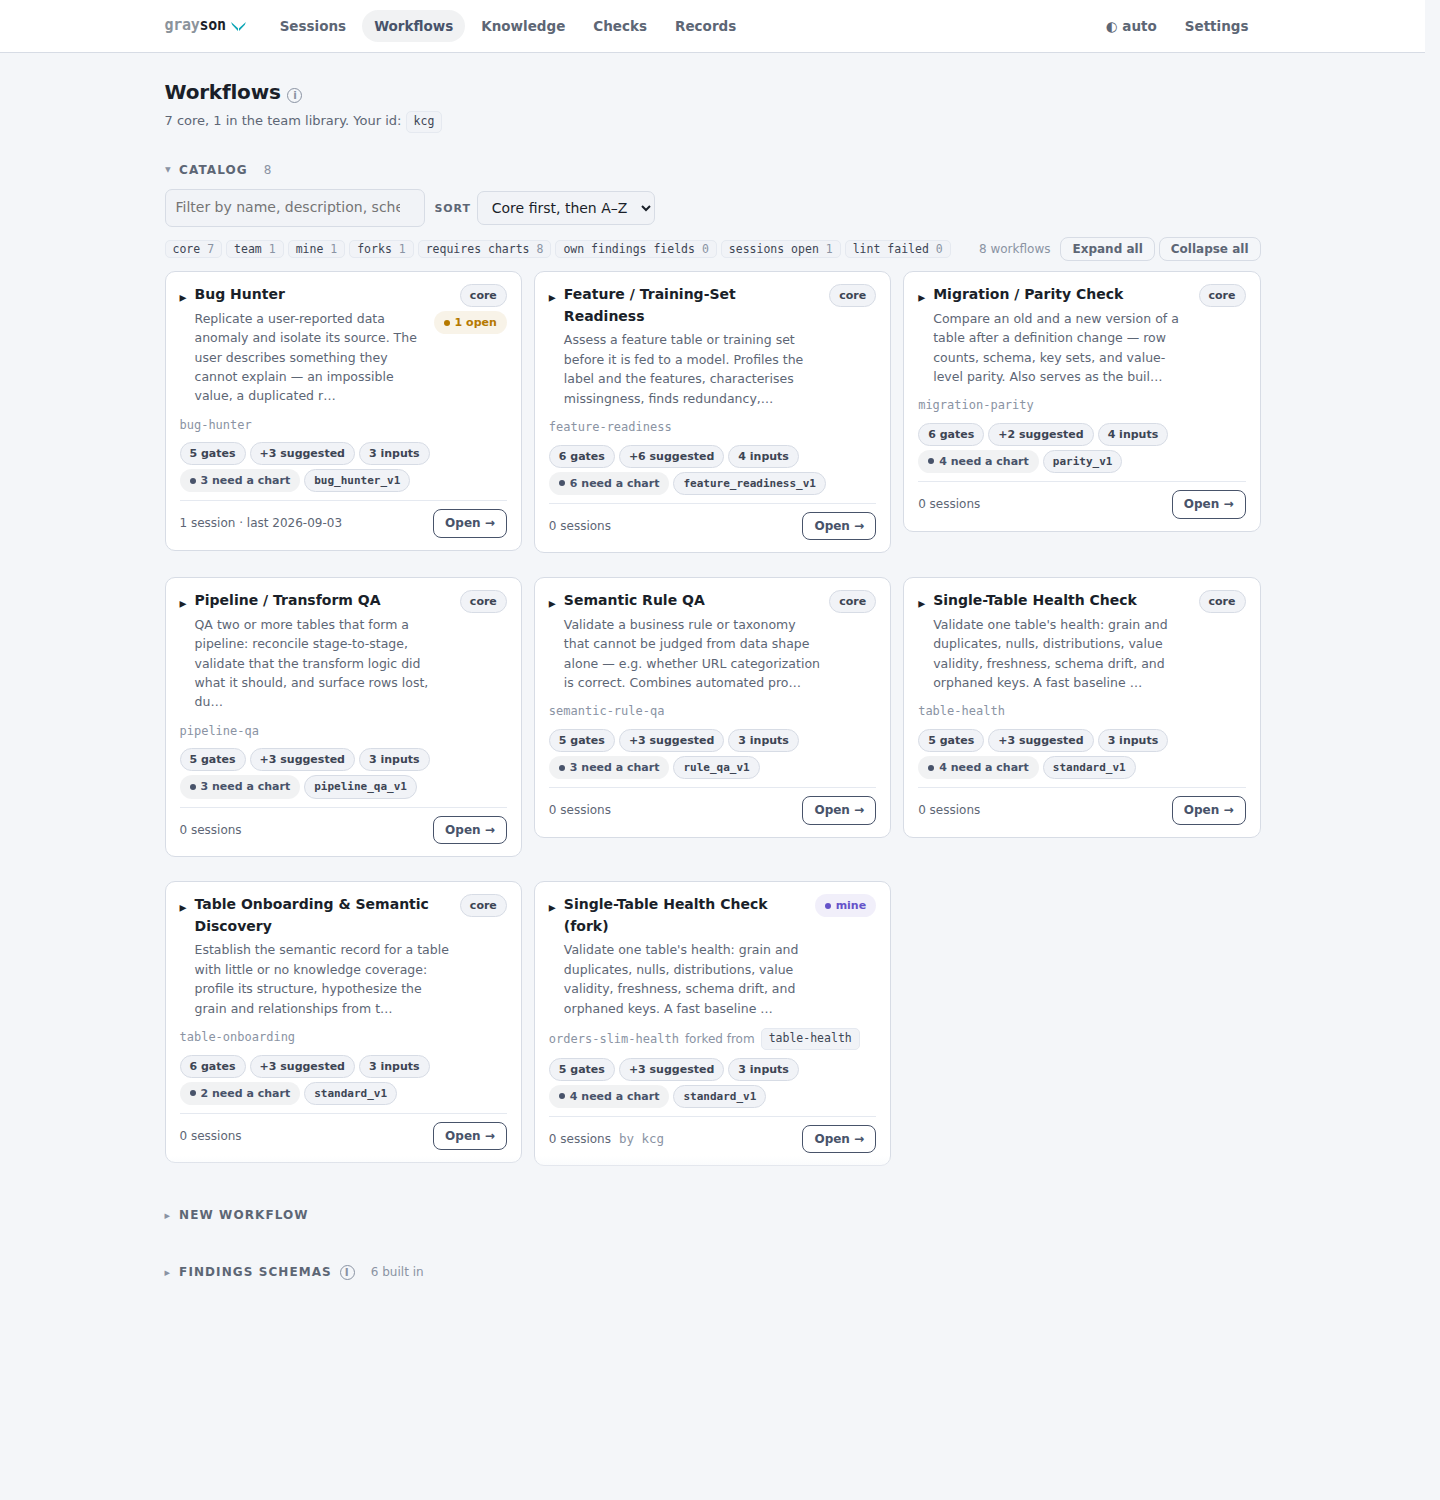
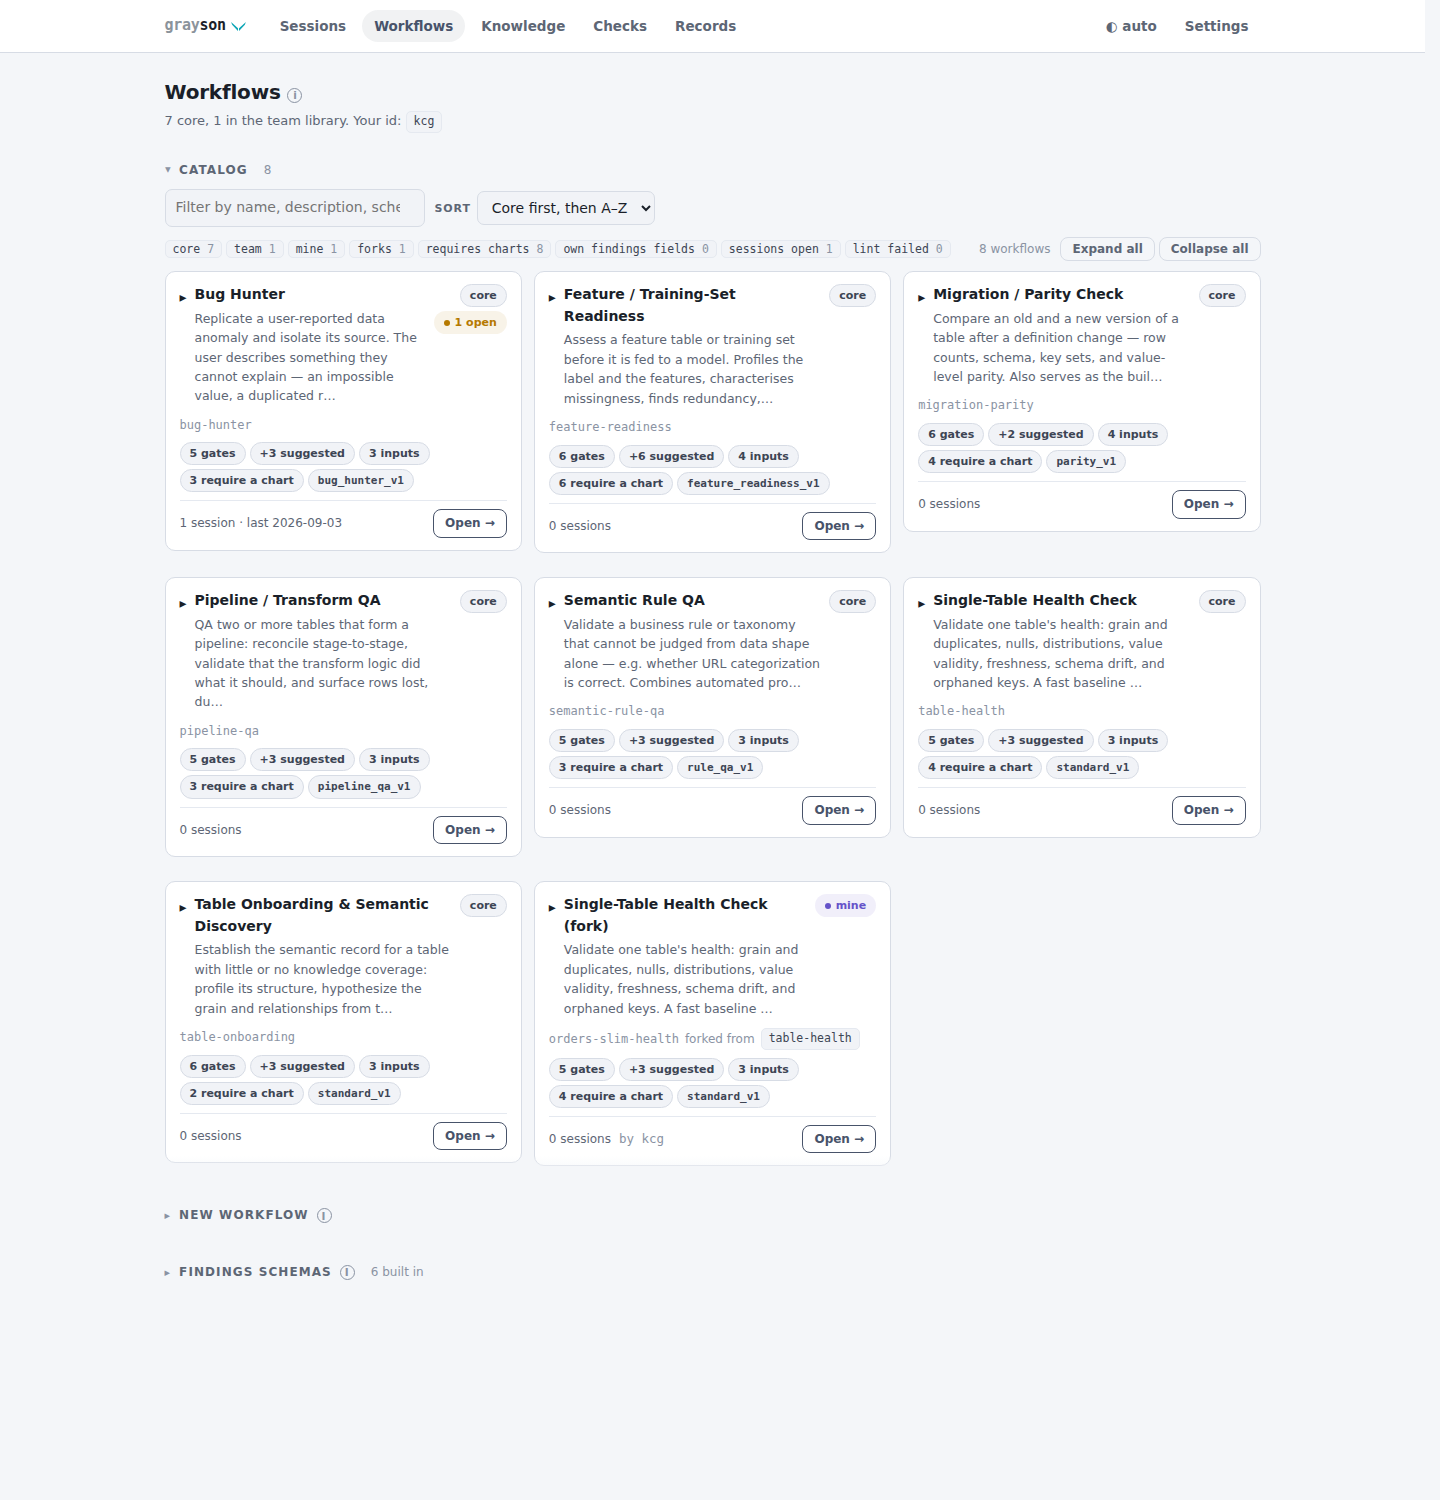
Workflow pages: less prose, and tiles that read
The workflow page's count tiles used inline spans where the stat-tile
styles expect block children, so number and label ran together; they are
block elements now, like every other tiles row. The rest is exposition
moved out of the way: the findings schema card, the add-checkpoint and
add-field folds, the danger zone, the catalog's new-workflow and schemas
sections, and the review, edit and YAML pages each lose a paragraph, with
the substance kept behind info widgets (findings_fields, required_checks,
workflow_new, workflow_delete, workflow_preview, workflow_confirm — the
last of which the review page already referenced without a glossary
entry). An unread setup input is a badge with the explanation in its
tooltip. Screenshots regenerated.

Claude-Session: https://claude.ai/code/session_015HQuhWSAPXUT1SnVnrrYrd

diff --git a/src/grayson/ui/templates/workflow_detail.html b/src/grayson/ui/templates/workflow_detail.html
@@ -173,12 +173,12 @@ pre.example { background: var(--panel2); border: 1px solid var(--border-soft);
 </div>
 
 <div class="tiles">
-  <a class="tile" href="#inputs"><span class="num">{{ tpl.setup_inputs | length }}</span><span class="lbl">setup inputs</span></a>
-  <a class="tile" href="#checkpoints"><span class="num">{{ tpl.required_checks | length }}</span><span class="lbl">gating checks</span></a>
-  <a class="tile" href="#checkpoints"><span class="num">{{ tpl.suggested_checks | length }}</span><span class="lbl">suggested</span></a>
-  <a class="tile" href="#checkpoints"><span class="num">{{ tpl.chart_requirements() }}</span><span class="lbl">require a chart</span></a>
-  <a class="tile" href="#schema"><span class="num">{{ schema.required_extra | length }}</span><span class="lbl">extra finding fields</span></a>
-  <a class="tile" href="#usage"><span class="num {{ 'ok' if usage.open }}">{{ usage.count }}</span><span class="lbl">session{{ "s" if usage.count != 1 }}{% if usage.open %} · {{ usage.open }} open{% endif %}</span></a>
+  <a class="tile" href="#inputs"><div class="num">{{ tpl.setup_inputs | length }}</div><div class="lbl">setup inputs</div></a>
+  <a class="tile" href="#checkpoints"><div class="num">{{ tpl.required_checks | length }}</div><div class="lbl">gating checks</div></a>
+  <a class="tile" href="#checkpoints"><div class="num">{{ tpl.suggested_checks | length }}</div><div class="lbl">suggested</div></a>
+  <a class="tile" href="#checkpoints"><div class="num">{{ tpl.chart_requirements() }}</div><div class="lbl">require a chart</div></a>
+  <a class="tile" href="#schema"><div class="num">{{ schema.required_extra | length }}</div><div class="lbl">extra finding fields</div></a>
+  <a class="tile" href="#usage"><div class="num {{ 'ok' if usage.open }}">{{ usage.count }}</div><div class="lbl">session{{ "s" if usage.count != 1 }}{% if usage.open %} · {{ usage.open }} open{% endif %}</div></a>
 </div>
 
 <div class="card">
@@ -254,7 +254,7 @@ pre.example { background: var(--panel2); border: 1px solid var(--border-soft);
         </span></summary>
       <div class="fold-body">
         {% if c.description %}<div class="ink2 small mt-2">{{ c.description.strip() }}</div>
-        {% else %}<div class="faint small mt-2">No description recorded — lint asks for one.</div>{% endif %}
+        {% else %}<div class="faint small mt-2">No description.</div>{% endif %}
         {% if c.depends_on or c.uses_inputs or c.charts %}
         <div class="kv" style="margin-top: 9px;">
           {% if c.depends_on %}
@@ -282,12 +282,9 @@ pre.example { background: var(--panel2); border: 1px solid var(--border-soft);
     {% endif %}
     {% if editable %}
     <details class="card editfold" data-fold="add-check"><summary>+ Add a checkpoint</summary>
-      <div class="muted small mt-2">Required checks gate review until closed with evidence;
-        suggested ones carry breadth and gate nothing. Ask: is the investigation meaningless
-        without it? Only then make it required.</div>
       <div class="row mt-2" style="gap: 12px; align-items: flex-start;">
-        <div style="flex: 1 1 320px;"><div class="overline">Required (gates)</div>{{ check_form(none, "required") }}</div>
-        <div style="flex: 1 1 320px;"><div class="overline">Suggested (breadth)</div>{{ check_form(none, "suggested") }}</div>
+        <div style="flex: 1 1 320px;"><div class="overline">Required {{ help("required_checks") }}</div>{{ check_form(none, "required") }}</div>
+        <div style="flex: 1 1 320px;"><div class="overline">Suggested {{ help("suggested_checks") }}</div>{{ check_form(none, "suggested") }}</div>
       </div>
     </details>
     {% endif %}
@@ -298,12 +295,10 @@ pre.example { background: var(--panel2); border: 1px solid var(--border-soft);
         <span class="chip mono">{{ schema.name }}</span>
         {% if tpl.findings_fields %}<span class="badge todo">+{{ tpl.findings_fields | length }} of this workflow's own</span>{% endif %}
         {% if schema.discriminator %}<span class="badge act" title="{{ schema.discriminator_hint }}">branches on {{ schema.discriminator }}</span>{% endif %}
+        {{ help("findings_fields") }}
         <span class="grow"></span>
         <span class="faint small">{{ schema.required_extra | selectattr("required") | list | length }} required in <span class="mono">extra</span></span>
       </div>
-      <div class="muted small" style="margin-top: 8px;">Every finding carries the base fields; the
-        schema and this workflow add the rest under <span class="mono">extra</span>. An agent reads
-        the same contract from <code>grayson workflow show {{ tpl.name }}</code>.</div>
 
       <table class="fieldtable" style="margin-top: 10px;">
         <thead><tr><th>field</th><th>holds</th><th></th></tr></thead>
@@ -338,8 +333,7 @@ pre.example { background: var(--panel2); border: 1px solid var(--border-soft);
 
       {% if schema.conditional_extra %}
       <div style="margin-top: 12px;">
-        <div class="overline">Branches on <span class="mono">{{ schema.discriminator }}</span></div>
-        <div class="muted small" style="margin: 3px 0 6px;">{{ schema.discriminator_hint }}</div>
+        <div class="overline" title="{{ schema.discriminator_hint }}">Branches on <span class="mono">{{ schema.discriminator }}</span></div>
         {% for value, fields in schema.conditional_extra.items() %}
         <div class="kv" style="margin-top: 6px;">
           <span class="item"><b>{{ schema.discriminator }} = {{ value }}</b><span>needs</span></span>
@@ -351,15 +345,12 @@ pre.example { background: var(--panel2); border: 1px solid var(--border-soft);
 
       {% if editable %}
       <details class="editfold" style="margin-top: 12px;" data-fold="add-field"><summary>+ Add a field this workflow requires</summary>
-        <div class="muted small mt-2">Fields go under <span class="mono">extra</span> in every
-          finding. Use a closed choice list where the answer is a verdict, so it cannot be hedged.
-          Naming a field the schema already requires tightens it instead of adding a second.</div>
         {{ field_form(none) }}
       </details>
       {% endif %}
 
       <details class="inlinefold" style="margin-top: 12px;" data-fold="base-fields">
-        <summary>Base fields every finding carries, and the rules they are held to</summary>
+        <summary>Base fields</summary>
         <table class="fieldtable" style="margin-top: 6px;">
           <tbody>
           {% for b in schema.base_fields %}
@@ -374,7 +365,7 @@ pre.example { background: var(--panel2); border: 1px solid var(--border-soft);
         </ul>
       </details>
       <details class="inlinefold" style="margin-top: 8px;" data-fold="example">
-        <summary>Example payload shaped to pass</summary>
+        <summary>Example payload</summary>
         <pre class="example mt-2">{{ schema.example | tojson(indent=2) }}</pre>
       </details>
     </div>
@@ -405,7 +396,7 @@ pre.example { background: var(--panel2); border: 1px solid var(--border-soft);
           </div>
           <label>findings schema <select name="findings_schema">
             {% for sn in schema_names %}<option value="{{ sn }}" {{ "selected" if sn == tpl.findings_schema }}>{{ sn }}</option>{% endfor %}
-          </select><span class="hint">the built-in base; this workflow's own fields stay</span></label>
+          </select><span class="hint">this workflow's own fields stay</span></label>
           <div class="submit"><button class="btn secondary sm" type="submit">Review change…</button></div>
         </form>
       </details>
@@ -424,8 +415,7 @@ pre.example { background: var(--panel2); border: 1px solid var(--border-soft);
         {% set used = inputs_used.get(i.key, []) %}
         <div class="faint small" style="margin-top: 2px;">
           {% if used %}read by <span class="mono">{{ used | join(", ") }}</span>
-          {% elif i.required %}<span class="attn-text">no checkpoint declares it works from this answer</span>
-          {% else %}no checkpoint declares it{% endif %}</div>
+          {% else %}<span class="badge {{ 'attn' if i.required else 'plain' }}" title="No checkpoint declares (uses_inputs) that it works from this answer{% if i.required %} — a required question nothing reads{% endif %}">unread</span>{% endif %}</div>
         {% if editable %}
         <details class="editfold"><summary>Edit</summary>{{ input_form(i, i.key) }}</details>
         {{ el_tools("input", i.key, "", loop.first, loop.last) }}
@@ -469,9 +459,9 @@ pre.example { background: var(--panel2); border: 1px solid var(--border-soft);
     <div class="card danger-zone">
       <details class="editfold" data-fold="delete"><summary>Delete this workflow</summary>
         <div class="muted small mt-2">Removes <span class="mono">workflows/{{ tpl.name }}.yaml</span>
-          from the library{% if auto_push %} and pushes the removal{% endif %}. The library's git
-          history keeps the file. Refused while sessions are open on it{% if usage.open %} —
-          <b class="attn-text">{{ usage.open }} open now</b>{% endif %}.</div>
+          from the library{% if auto_push %} and pushes{% endif %}.{% if usage.open %}
+          <b class="attn-text">{{ usage.open }} open now</b> — refused until closed.{% endif %}
+          {{ help("workflow_delete") }}</div>
         <form class="row mt-2" method="post" action="/workflows/{{ tpl.name }}/delete?t={{ token }}"
           onsubmit="return confirm('Delete workflow {{ tpl.name }} from the library?');">
           <input type="text" name="confirm_name" placeholder="type {{ tpl.name }} to confirm"

diff --git a/src/grayson/ui/templates/workflow_review.html b/src/grayson/ui/templates/workflow_review.html
@@ -26,10 +26,8 @@ pre.preview { background: var(--panel2); border: 1px solid var(--border-soft);
   <div class="titles">
     <div class="titlerow"><h1>Confirm: {{ what }}</h1>
       <span class="badge attn">not saved yet</span></div>
-    <div class="lede">This is what saving writes to <span class="mono">workflows/{{ name }}.yaml</span>.
-      {% if auto_push %}The library auto-pushes, so the change reaches your team on save.
-      {% else %}It reaches your team on the next <code>grayson library push</code>.{% endif %}
-      Nothing is written until you confirm.</div>
+    <div class="lede">Nothing is written to <span class="mono">workflows/{{ name }}.yaml</span> until
+      you confirm{% if auto_push %}; saving also pushes to the team library{% endif %}.</div>
   </div>
 </div>
 
@@ -67,16 +65,13 @@ pre.preview { background: var(--panel2); border: 1px solid var(--border-soft);
     {% if diff %}
     <pre class="diff">{% for line in diff.splitlines() %}{% if line.startswith("+++") or line.startswith("---") %}<span class="meta">{{ line }}</span>{% elif line.startswith("@@") %}<span class="hunk">{{ line }}</span>{% elif line.startswith("+") %}<span class="add">{{ line }}</span>{% elif line.startswith("-") %}<span class="del">{{ line }}</span>{% else %}{{ line }}{% endif %}
 {% endfor %}</pre>
-    <div class="faint small mt-1">Saving writes the file in grayson's canonical layout; a hand-edited
-      file's comments and line breaks are normalised on the first save.</div>
+    <div class="faint small mt-1">Saved in canonical layout: a hand-edited file's comments do not survive.</div>
     {% else %}
     <div class="card empty">No line differs.</div>
     {% endif %}
   </div>
   <div>
-    <h2>As it will read</h2>
-    <div class="muted small" style="margin-bottom: 6px;">The same rendering <code>grayson workflow preview</code>
-      shows an agent's user for sign-off.</div>
+    <h2>As it will read {{ help("workflow_preview") }}</h2>
     <pre class="preview">{{ preview }}</pre>
   </div>
 </div>

diff --git a/src/grayson/ui/templates/workflows.html b/src/grayson/ui/templates/workflows.html
@@ -136,11 +136,8 @@
 </details>
 
 <details class="section" id="new" data-fold="new">
-<summary><h2>New workflow</h2></summary>
+<summary><h2>New workflow {{ help("workflow_new") }}</h2></summary>
 <div class="card">
-  <div class="muted small" style="margin-bottom: 10px;">Blank from a scaffold, or a fork of any
-    workflow with its lineage recorded. It lands in the team library under your id; you edit it
-    element by element on its page, or as YAML.</div>
   <form class="newform" method="post" action="/workflows/new?t={{ token }}">
     <input type="text" name="new_name" placeholder="name, e.g. orders-slim-health"
       pattern="[a-z0-9][a-z0-9-]*" required>
@@ -156,10 +153,6 @@
 <details class="section" id="schemas" data-fold="schemas">
 <summary><h2>Findings schemas {{ help("findings_schema") }}
   <span class="faint" style="font-weight: 500; margin-left: 8px; text-transform: none; letter-spacing: 0;">{{ schemas | length }} built in</span></h2></summary>
-<div class="muted small" style="margin-bottom: 10px;">Every finding carries the base fields
-  (title, severity, confidence, summary, evidence, and the optional ones). A workflow names one
-  of these schemas for the rest, and can add its own fields on top — open a workflow to see its
-  effective schema and edit its fields.</div>
 <div class="schemagrid">
   {% for sc in schemas %}
   <details class="card foldcard" data-fold="schema-{{ sc.name }}">

diff --git a/src/grayson/ui/templates/workflow_edit.html b/src/grayson/ui/templates/workflow_edit.html
@@ -19,9 +19,8 @@
 <div class="pagehead">
   <div class="titles">
     <div class="titlerow"><h1>Edit {{ name }} as YAML {{ help("workflow_yaml") }}</h1></div>
-    <div class="lede">The whole file at once. For one checkpoint, input or findings field at a time,
-      use the forms on <a href="/workflows/{{ name }}?t={{ token }}">the workflow page</a> — either
-      way you review the exact change before it is saved.</div>
+    <div class="lede">The whole file at once; single elements edit on
+      <a href="/workflows/{{ name }}?t={{ token }}">the workflow page</a>.</div>
   </div>
 </div>
 
@@ -32,7 +31,7 @@
     <div class="row" style="margin-top: 10px;">
       <button class="btn" type="submit" name="action" value="review">Review changes…</button>
       <a class="btn ghost" href="/workflows/{{ name }}?t={{ token }}">Cancel</a>
-      <span class="muted small">Validates, then shows the diff and preview for confirmation.</span>
+
     </div>
   </form>
   <div class="card ref">

diff --git a/src/grayson/ui/templates/workflow_yaml.html b/src/grayson/ui/templates/workflow_yaml.html
@@ -17,8 +17,6 @@ pre.yaml { position: relative; background: var(--panel2); border: 1px solid var(
     <div class="titlerow"><h1>{{ tpl.name }}.yaml {{ help("workflow_yaml") }}</h1>
       {% if is_core %}<span class="badge plain">core — rendered from the built-in template</span>
       {% else %}<span class="badge act">library file</span>{% endif %}</div>
-    <div class="lede">The definition as it is stored{% if is_core %} would be, were it a library file{% endif %}.
-      Copy it, download it, or {% if editable %}edit it{% else %}fork it from the workflow page{% endif %}.</div>
   </div>
   <span class="actions">
     <a class="btn ghost" href="/workflows/{{ tpl.name }}/yaml?raw=1&t={{ token }}" download="{{ tpl.name }}.yaml">Download</a>

diff --git a/src/grayson/ui/format.py b/src/grayson/ui/format.py
@@ -216,8 +216,40 @@ GLOSSARY: dict[str, str] = {
         "blocks a stage; those the agent takes up become ordinary checkpoints."
     ),
     "findings_schema": (
-        "The shape every finding must validate against, plus at least one "
-        "executed query as evidence. Extra required keys are the workflow's own."
+        "The shape every finding must validate against. Every finding carries the "
+        "base fields (title, severity, confidence, summary, evidence); the named "
+        "schema and the workflow's own fields add the rest under `extra`. Agents "
+        "read the same contract from `workflow show`."
+    ),
+    "findings_fields": (
+        "Fields this workflow requires in every finding's `extra`, on top of the "
+        "schema's. A closed choice list keeps a verdict from being hedged; an "
+        "optional field is documented for the agent without gating. Naming a field "
+        "the schema already requires tightens it instead of adding a second."
+    ),
+    "required_checks": (
+        "Gates: review opens only once each is closed with evidence, or waived by "
+        "you with a reason. Keep them to what the investigation is meaningless "
+        "without — a gate that does not apply gets closed hollow."
+    ),
+    "workflow_new": (
+        "Blank from a scaffold, or a fork of any workflow with its lineage recorded. "
+        "It lands in the team library under your id; edit it element by element on "
+        "its page, or as YAML."
+    ),
+    "workflow_delete": (
+        "Only the author can delete a workflow, never a core template, and never "
+        "while a session is open on it. The library's git history keeps the file; "
+        "push propagates the removal."
+    ),
+    "workflow_preview": (
+        "The same rendering `grayson workflow preview` gives an agent to paste for "
+        "sign-off, so what you confirm here is what they would be shown."
+    ),
+    "workflow_confirm": (
+        "Every edit — YAML or a single element — stops here first. Confirming writes "
+        "the file shown; cancelling discards the draft. The library's git history "
+        "keeps every earlier version."
     ),
     "setup_inputs": (
         "What the human supplied when the session started. Checkpoints that "

diff --git a/tests/test_ui_workflows.py b/tests/test_ui_workflows.py
@@ -114,7 +114,7 @@ def test_detail_shows_charts_inputs_and_schema(client):
     assert "blast_radius" in page and "alternatives_tested" in page
     assert "branches on resolution" in page
     assert "remaining_hypotheses" in page
-    assert "Base fields every finding carries" in page
+    assert "Base fields" in page
     assert "Example payload" in page and "&#34;evidence&#34;" in page or '"evidence"' in page
 
 
